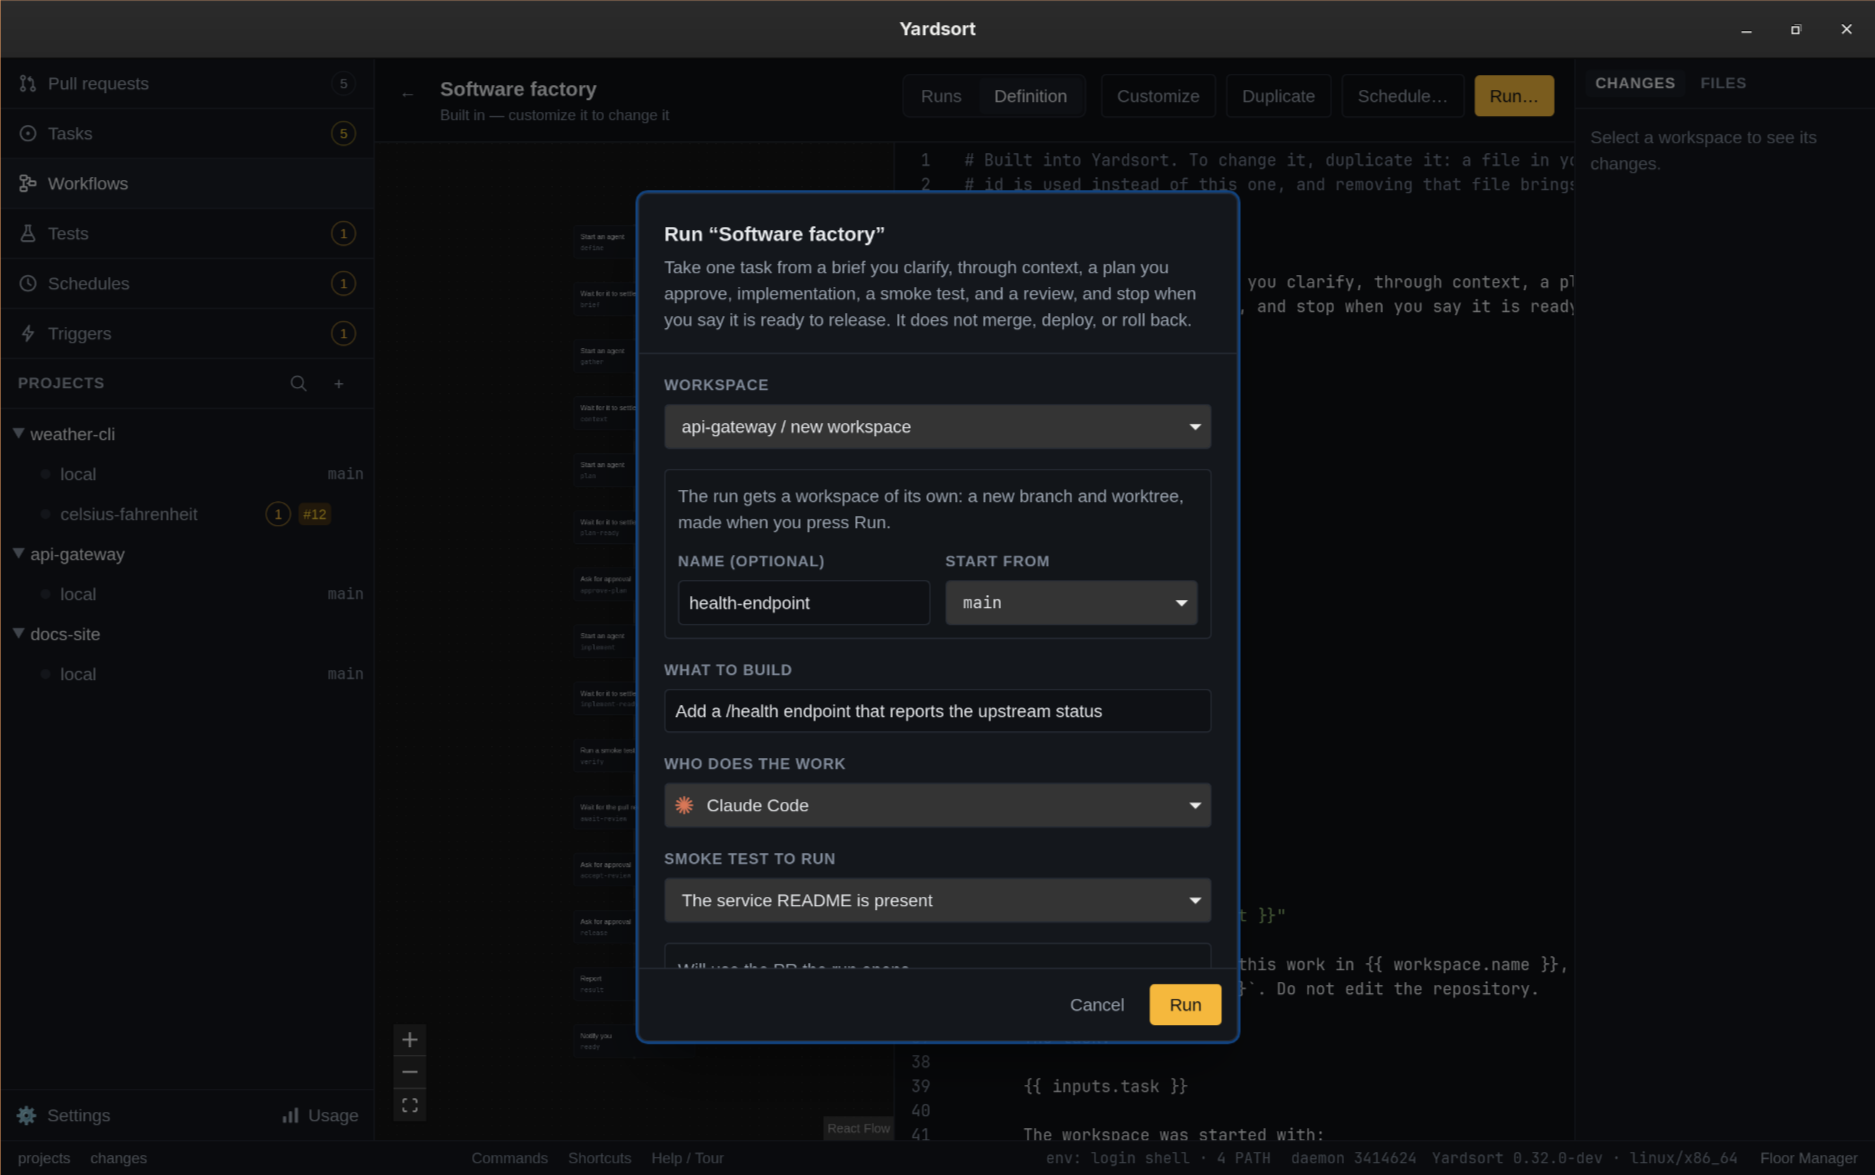
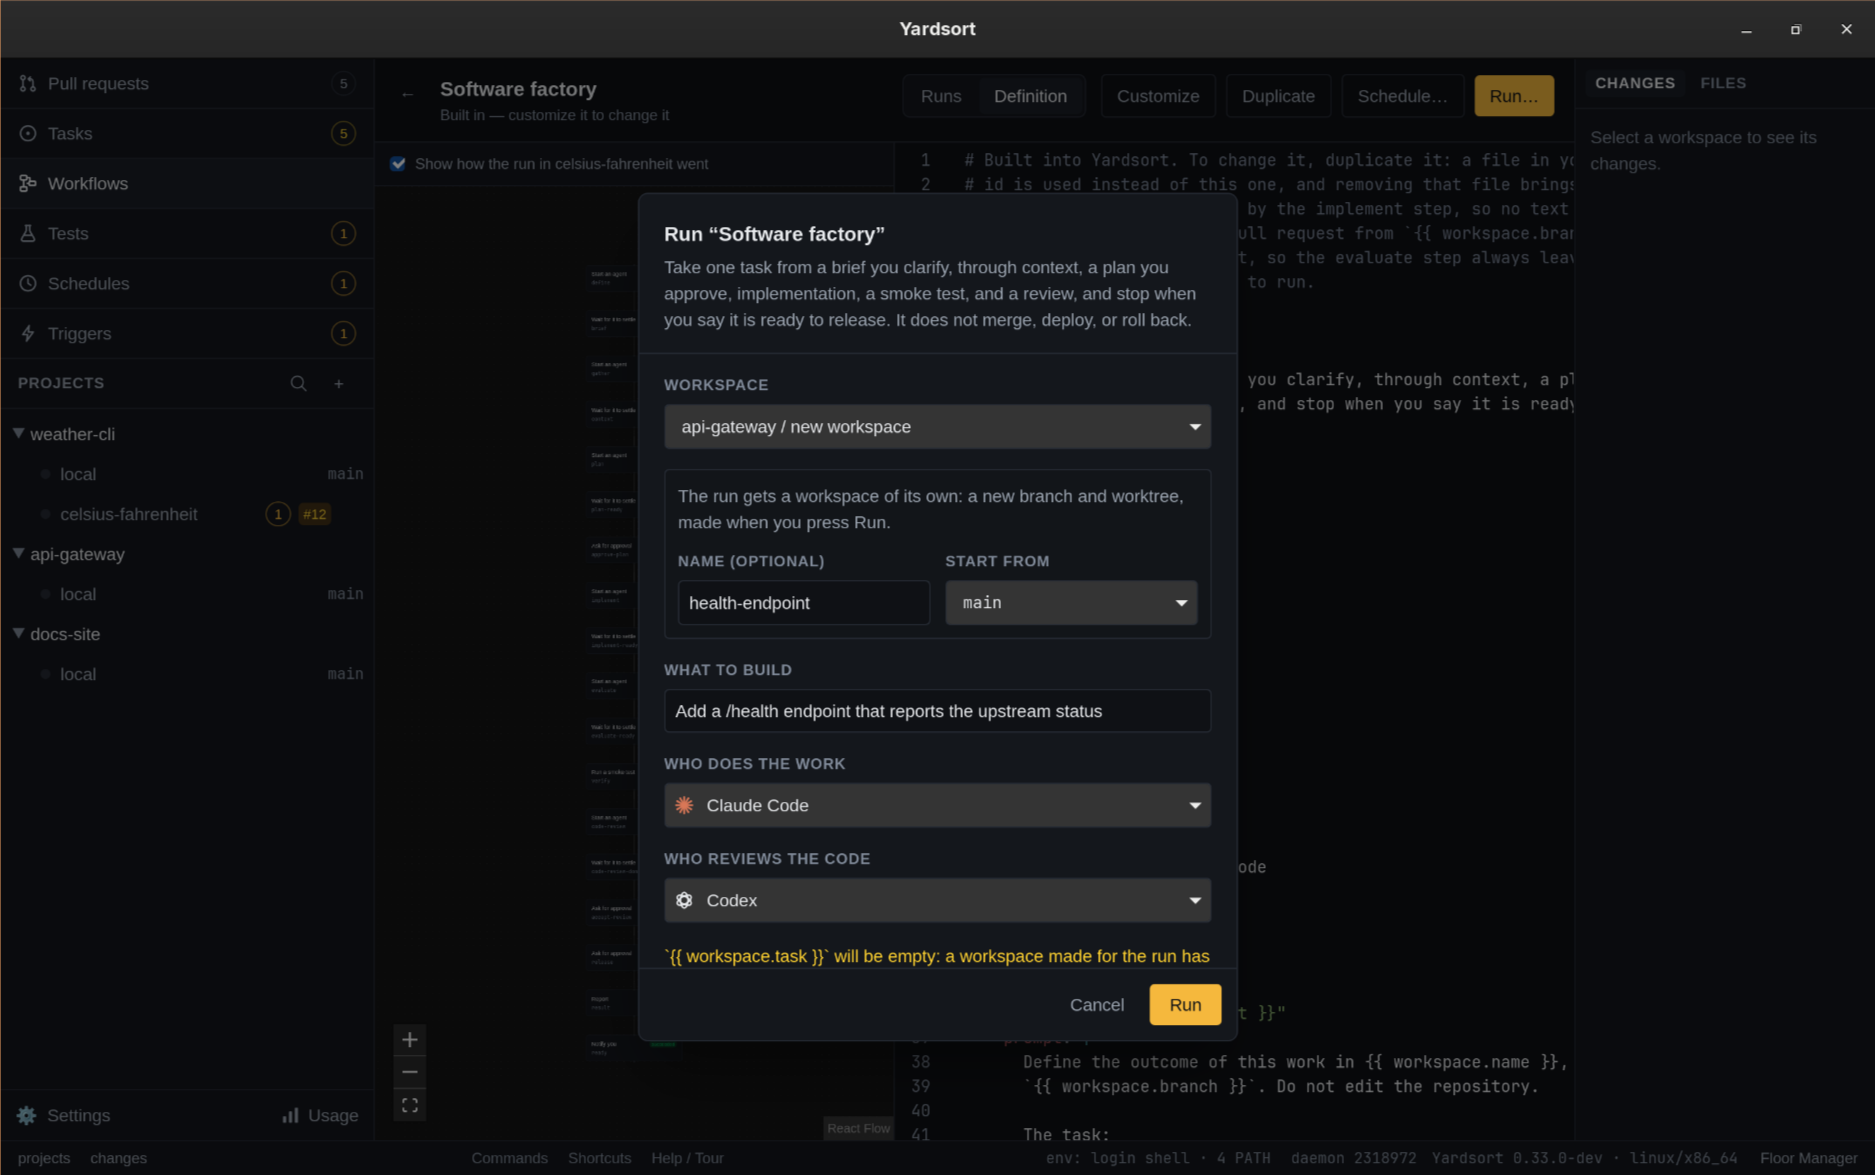
Docs: retake the workflows and Run dialog screenshots for the new factory
The Runs shot shows a finished Software factory run with the evaluate steps,
and the Run dialog shot asks who reviews the code instead of a smoke test.
Taken with scripts/screenshots.sh on demo data.

diff --git a/docs/guide/workflows.md b/docs/guide/workflows.md
@@ -302,7 +302,7 @@ ys workflow run fix-tests --project app --name nightly-fix --base release --inpu
 
 It prints the workspace it made, with its branch and folder, and then the run.
 
-![The Run dialog for Software factory with a new workspace chosen in api-gateway: its name, the branch it starts from, what to build, who does the work and the smoke test to run](../images/workflow-run-new-workspace.png)
+![The Run dialog for Software factory with a new workspace chosen in api-gateway: its name, the branch it starts from, what to build, who does the work and who reviews the code](../images/workflow-run-new-workspace.png)
 
 Everything is checked before the workspace is made, so a run that is refused leaves no branch
 and no folder behind. Three things are different from a run in a workspace that was there:
